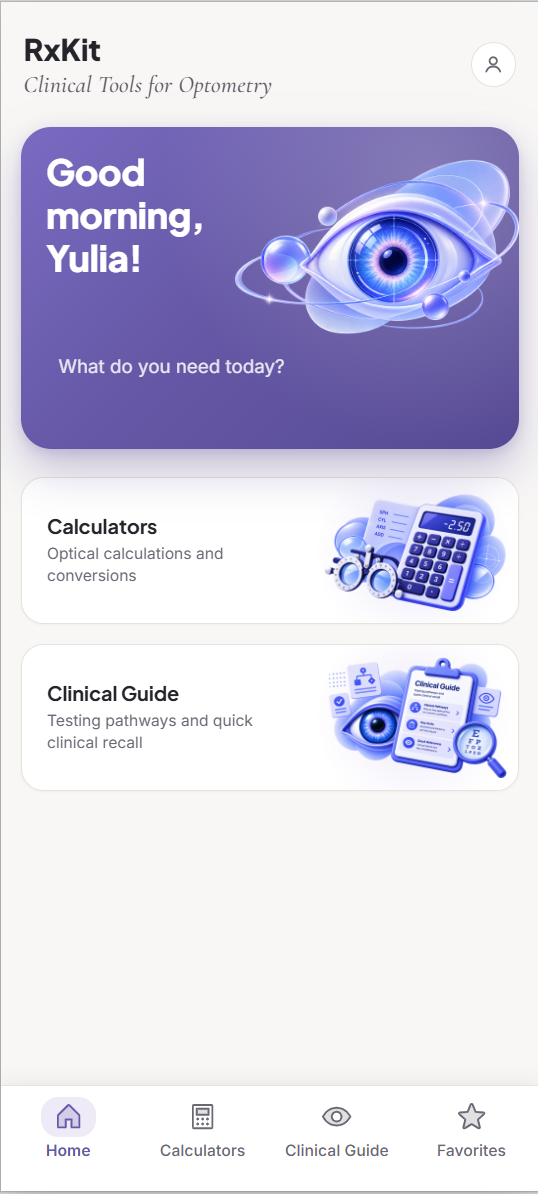
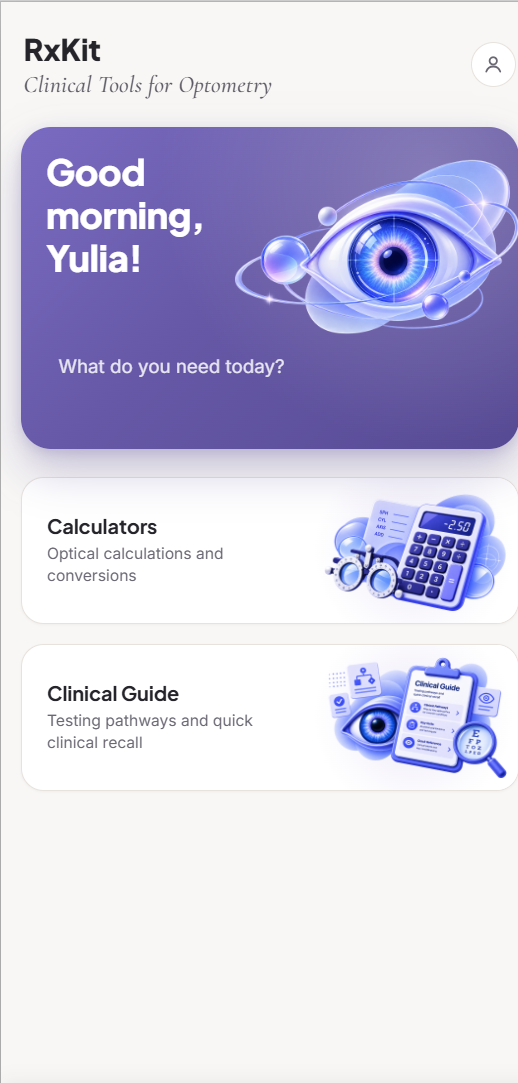
Redesign README Screenshots section as one aligned three-panel row
Cut the set to 3 screenshots (Home, Vertex Distance result, Cover Test
card) and cropped all three to identical 518x1083 dimensions so they
sit in one row with matching height, width, and top/bottom alignment —
no stretching, just consistent top-anchored crops. Also trimmed a
browser scrollbar sliver that was visible on the two taller screens.

Dropped the calculators-list and guide-pathway shots (redundant with
the calculator table and less visually representative than the test
card) and removed the caption underneath, per feedback that the old
4-image layout looked uneven.

Changed region(s): [[0.0309, 0.0305, 1.0, 0.7313], [0.0, 0.9141, 1.0, 1.0], [0.8958, 0.0305, 0.9575, 0.0609]]

diff --git a/README.md b/README.md
@@ -86,16 +86,10 @@ optometrist user.
 ## Screenshots
 
 <p align="center">
-  <img src="docs/screenshots/home.png" width="46%" alt="Home screen">
+  <img src="docs/screenshots/home.png" width="32%" alt="Home screen">
+  <img src="docs/screenshots/vertex-distance.png" width="32%" alt="Vertex Distance calculator result">
+  <img src="docs/screenshots/test-card.png" width="32%" alt="Cover Test clinical reference card">
 </p>
-<p align="center">
-  <img src="docs/screenshots/vertex-distance.png" width="31%" alt="Vertex Distance calculator result">
-  <img src="docs/screenshots/guide-pathway.png" width="31%" alt="Clinical Guide pathway">
-  <img src="docs/screenshots/test-card.png" width="31%" alt="Cover Test clinical reference card">
-</p>
-
-*Home, a calculator result, a Clinical Guide pathway, and the test card
-it leads to.*
 
 ## Tech stack
 
